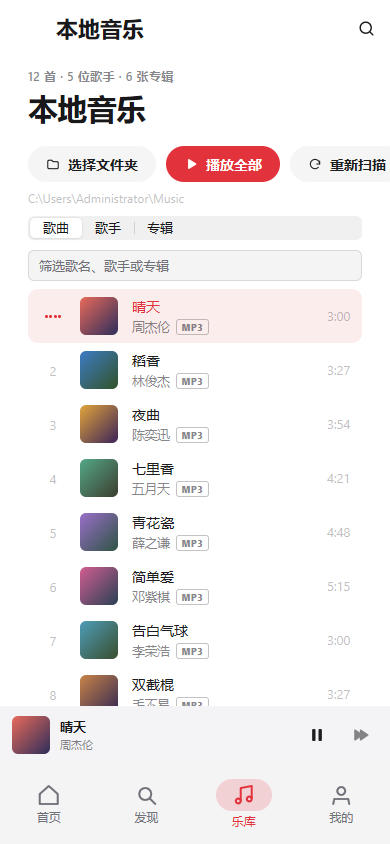
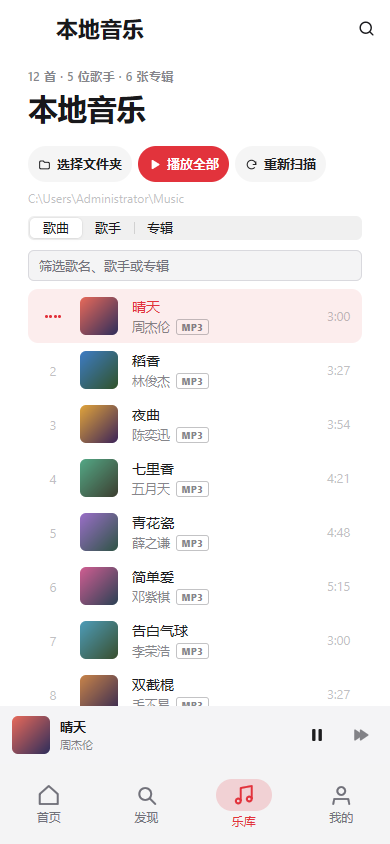
手机端布局按 mygo 官方组件收口
- 发现页与搜索结果页的输入框按屏宽铺满，不再固定 400px 溢出屏幕
- 本地音乐页三个按钮改紧凑样式，390px 屏幕上完整显示
- 设置页手机端改用官方 mobile.Section / ListRow / Switch，获得系统风格的
  分组、行高、分隔线与开关；桌面窗口仍用原来的紧凑列表
- 同步更新 README 的手机截图

Changed region(s): [[0.0923, 0.154, 1.0, 0.2156]]

diff --git a/internal/app/ui_settings.go b/internal/app/ui_settings.go
@@ -6,6 +6,7 @@ import (
 
 	"github.com/egoist/mygo"
 	"github.com/egoist/mygo/ui"
+	"github.com/egoist/mygo/ui/mobile"
 
 	"netease-music-mygo/internal/netease"
 )
@@ -60,6 +61,15 @@ func (a *app) changed() {
 	a.redraw()
 }
 
+// settingSwitch is the system switch on a phone and the desktop's in the
+// settings window. Both write to the setting the caller hands in.
+func (a *app) settingSwitch(c *ui.Context, key any, on *bool, label string, off bool) bool {
+	if a.phone {
+		return mobile.Switch(c.Key(key), on).Disabled(off).Changed()
+	}
+	return ui.Switch(c.Key(key), on).Label(label).Disabled(off).Changed()
+}
+
 func (a *app) settingsView(c *ui.Context) {
 	t := *c.Theme()
 	p := paletteFor(&t)
@@ -71,12 +81,27 @@ func (a *app) settingsView(c *ui.Context) {
 	}
 	s := &a.settings
 
-	ui.Scroll(c).Fill().Padding(24, 28, 32, 28).Gap(8).Children(func() {
+	// A phone gets the system's own grouped rows and switches: their row
+	// height, side padding, separators and touch feedback are the ones the
+	// other phone screens use. The desktop keeps its compact window list.
+	padX := float32(28)
+	if a.phone {
+		padX = 12
+	}
+	ui.Scroll(c).Fill().Padding(24, padX, 32, padX).Gap(8).Children(func() {
 		group := func(title string, rows func()) {
+			if a.phone {
+				mobile.Section(c, title, rows)
+				return
+			}
 			ui.Text(c, title).FontSize(12).FontWeight(600).TextColor(p.muted).Margin(14, 4, 4, 4)
 			ui.Column(c).Radius(12).Background(p.bg).Border(1, p.hairline).Dividers(1, p.hairline).Children(rows)
 		}
 		row := func(label, desc string, control func()) {
+			if a.phone {
+				mobile.ListRow(c, mobile.RowOptions{Title: label, Subtitle: desc, Trailing: control})
+				return
+			}
 			ui.Row(c).Padding(12, 16).Gap(16).AlignItems(ui.Center).MinHeight(48).Children(func() {
 				ui.Column(c).Grow(1).Shrink(1).MinWidth(0).Gap(3).Children(func() {
 					ui.Text(c, label).FontSize(13.5).FontWeight(500)
@@ -87,7 +112,6 @@ func (a *app) settingsView(c *ui.Context) {
 				control()
 			})
 		}
-
 		// Only on macOS: elsewhere the icon is always in the notification
 		// area.
 		if runtime.GOOS == "darwin" {
@@ -118,17 +142,17 @@ func (a *app) settingsView(c *ui.Context) {
 		if a.notch != nil {
 			group("刘海播放器", func() {
 				row("显示刘海播放器", "在屏幕顶部的刘海处显示迷你播放器，鼠标悬停即可展开", func() {
-					if ui.Switch(c.Key("notch"), &s.Notch).Label("显示刘海播放器").Changed() {
+					if a.settingSwitch(c, "notch", &s.Notch, "显示刘海播放器", false) {
 						a.changed()
 					}
 				})
 				row("播放时显示实时活动", "在刘海两侧显示封面与音频波形，可能遮挡刘海旁的菜单栏图标", func() {
-					if ui.Switch(c.Key("activity"), &s.NotchActivity).Label("播放时显示实时活动").Disabled(!s.Notch).Changed() {
+					if a.settingSwitch(c, "activity", &s.NotchActivity, "播放时显示实时活动", !s.Notch) {
 						a.changed()
 					}
 				})
 				row("在无刘海的屏幕上常驻显示", "关闭时，将鼠标移至屏幕顶部中央即可唤出，不会遮挡菜单栏", func() {
-					if ui.Switch(c.Key("virtual"), &s.NotchVirtual).Label("在无刘海的屏幕上常驻显示").Disabled(!s.Notch).Changed() {
+					if a.settingSwitch(c, "virtual", &s.NotchVirtual, "在无刘海的屏幕上常驻显示", !s.Notch) {
 						a.changed()
 					}
 				})
@@ -155,12 +179,12 @@ func (a *app) settingsView(c *ui.Context) {
 				}
 			})
 			row("间奏时显示热评", "前奏、间奏与尾奏时，歌词处换成这首歌的热门评论", func() {
-				if ui.Switch(c.Key("hot-comments"), &s.HotComments).Label("间奏时显示热评").Changed() {
+				if a.settingSwitch(c, "hot-comments", &s.HotComments, "间奏时显示热评", false) {
 					a.changed()
 				}
 			})
 			row("酷狗概念版", "以酷狗概念版的身份播放：概念版会员可听会员歌曲，账号旁显示概念版标识；切换后需要重新登录", func() {
-				if ui.Switch(c.Key("concept"), &s.Concept).Label("酷狗概念版").Changed() {
+				if a.settingSwitch(c, "concept", &s.Concept, "酷狗概念版", false) {
 					a.changed()
 					// The mode decides how everything is signed from here
 					// on, including the code the sign-in dialog asks for.
@@ -175,7 +199,7 @@ func (a *app) settingsView(c *ui.Context) {
 				}
 			})
 			row("音量均衡", "按酷狗音乐测得的响度调整每首歌的音量，让歌曲听起来一样响", func() {
-				if ui.Switch(c.Key("normalize"), &s.Normalize).Label("音量均衡").Changed() {
+				if a.settingSwitch(c, "normalize", &s.Normalize, "音量均衡", false) {
 					a.pl.SetVolume(a.volume)
 					a.changed()
 				}
@@ -310,12 +334,12 @@ func (a *app) settingsView(c *ui.Context) {
 
 		group("实验性功能", func() {
 			row("进度条烟雾特效", "播放时进度条化作拖着烟雾的光点，随音乐起伏；会多用一些电量", func() {
-				if ui.Switch(c.Key("smoke"), &s.Smoke).Label("进度条烟雾特效").Changed() {
+				if a.settingSwitch(c, "smoke", &s.Smoke, "进度条烟雾特效", false) {
 					a.changed()
 				}
 			})
 			row("烟雾背景", "播放页的背景化作封面色调的烟雾，缓缓升起，随低音起伏；仍在打磨，会多用一些电量", func() {
-				if ui.Switch(c.Key("fog"), &s.Fog).Label("烟雾背景").Changed() {
+				if a.settingSwitch(c, "fog", &s.Fog, "烟雾背景", false) {
 					a.changed()
 				}
 			})
@@ -353,13 +377,13 @@ func (a *app) settingsView(c *ui.Context) {
 				}
 				row("自动检查更新", desc, func() {
 					on := updateChecks()
-					if ui.Switch(c.Key("update-checks"), &on).Label("自动检查更新").Changed() {
+					if a.settingSwitch(c, "update-checks", &on, "自动检查更新", false) {
 						setUpdateChecks(on)
 					}
 				})
 				row("自动下载并安装", "在后台下载新版本，下次打开时生效", func() {
 					on := updateDownloads()
-					if ui.Switch(c.Key("update-downloads"), &on).Label("自动下载并安装").Disabled(!updateChecks()).Changed() {
+					if a.settingSwitch(c, "update-downloads", &on, "自动下载并安装", !updateChecks()) {
 						setUpdateDownloads(on)
 					}
 				})

diff --git a/internal/app/ui_local.go b/internal/app/ui_local.go
@@ -427,16 +427,23 @@ func (a *app) localHeader(c *ui.Context) {
 		}
 	}
 	a.heading(c, "本地音乐", sub)
+	pill := pillButton
+	if a.phone {
+		// Three full-size pills do not fit a phone's content width.
+		pill = func(c *ui.Context, icon *ui.SVG, label string, bg, fg ui.Color) ui.Element {
+			return pillButtonSized(c, icon, label, bg, fg, true)
+		}
+	}
 	buttons := func() {
-		if pillButton(c.Key("local-dir"), iconFolder, "选择文件夹", p.hover.Over(p.bg), p.text).Clicked() {
+		if pill(c.Key("local-dir"), iconFolder, "选择文件夹", p.hover.Over(p.bg), p.text).Clicked() {
 			a.chooseLocalDir()
 		}
 		if len(a.localTracks) > 0 {
-			if pillButton(c.Key("local-play"), iconPlay, "播放全部", p.accent, p.onAccent).Clicked() {
+			if pill(c.Key("local-play"), iconPlay, "播放全部", p.accent, p.onAccent).Clicked() {
 				songs := a.localShown()
 				a.pl.PlayQueue(songs, firstPlayable(songs))
 			}
-			if pillButton(c.Key("local-rescan"), iconReload, "重新扫描", p.hover.Over(p.bg), p.text).Clicked() {
+			if pill(c.Key("local-rescan"), iconReload, "重新扫描", p.hover.Over(p.bg), p.text).Clicked() {
 				a.scanLocal()
 			}
 		}
@@ -448,7 +455,7 @@ func (a *app) localHeader(c *ui.Context) {
 	// underneath instead of being squeezed off the edge.
 	if a.phone {
 		ui.Column(c).Gap(8).AlignItems(ui.Stretch).Margin(0, 0, 10, 0).Children(func() {
-			ui.Row(c).Gap(10).AlignItems(ui.Center).Children(buttons)
+			ui.Row(c).Gap(6).AlignItems(ui.Center).Children(buttons)
 			path(ui.Start)
 		})
 	} else {

diff --git a/internal/app/ui_kit.go b/internal/app/ui_kit.go
@@ -123,7 +123,17 @@ func vipTag(c *ui.Context, ink ui.Color, label string) ui.Element {
 }
 
 func pillButton(c *ui.Context, icon *ui.SVG, label string, bg, fg ui.Color) ui.Element {
-	b := ui.ButtonBase(c).Height(36).PaddingX(18).Gap(8).Radius(999).AlignItems(ui.Center).TextColor(fg)
+	return pillButtonSized(c, icon, label, bg, fg, false)
+}
+
+// pillButtonSized is pillButton with a compact form for the rows of buttons
+// a narrow screen has to fit: three full-size pills run off a phone.
+func pillButtonSized(c *ui.Context, icon *ui.SVG, label string, bg, fg ui.Color, compact bool) ui.Element {
+	padX, gap, font := float32(18), float32(8), float32(14)
+	if compact {
+		padX, gap, font = 10, 6, 13
+	}
+	b := ui.ButtonBase(c).Height(36).PaddingX(padX).Gap(gap).Radius(999).AlignItems(ui.Center).TextColor(fg)
 	fill := bg
 	if b.Hovered() {
 		fill = bg.Mix(ui.RGB(255, 255, 255), 0.12)
@@ -136,9 +146,13 @@ func pillButton(c *ui.Context, icon *ui.SVG, label string, bg, fg ui.Color) ui.E
 	b.AnimatePose(pose, ui.Snappy)
 	b.Children(func() {
 		if icon != nil {
-			ui.Icon(c, icon).Size(14, 14)
+			size := float32(14)
+			if compact {
+				size = 13
+			}
+			ui.Icon(c, icon).Size(size, size)
 		}
-		ui.Text(c, label).FontSize(14).FontWeight(600).SingleLine()
+		ui.Text(c, label).FontSize(font).FontWeight(600).SingleLine()
 	})
 	return b
 }

diff --git a/internal/app/ui_search.go b/internal/app/ui_search.go
@@ -375,7 +375,14 @@ func (a *app) searchHeader(c *ui.Context, d *searchData) {
 	// query does not mean going back to the sidebar's field.
 	in := ui.TextInput(c.Key("search-live"), &a.live.draft).
 		Placeholder("搜索歌曲、歌手、听书").Label("搜索").FontSize(14).
-		Width(400).Height(36).Margin(0, 0, 14, 0)
+		Height(36).Margin(0, 0, 14, 0)
+	// A fixed field runs off a phone's screen; on a desktop it keeps the
+	// width the sidebar was laid out for.
+	if a.phone {
+		in.FillWidth()
+	} else {
+		in.Width(400)
+	}
 	if in.Changed() {
 		a.liveTyped()
 	}
@@ -441,7 +448,8 @@ func (a *app) discoverPage(c *ui.Context) {
 	a.scrollPage(c, func() {
 		ui.Text(c, "发现音乐").FontSize(26).FontWeight(800).LetterSpacing(-0.6).Margin(0, 0, 16, 0)
 		in := ui.TextInput(c.Key("discover-field"), &a.live.draft).
-			Placeholder("搜索歌曲、歌手、听书").Label("搜索").FontSize(14).Width(400).Height(40).Margin(0, 0, 24, 0)
+			Placeholder("搜索歌曲、歌手、听书").Label("搜索").FontSize(14).
+			Height(40).Margin(0, 0, 24, 0).FillWidth()
 		if in.Changed() {
 			a.liveTyped()
 		}

diff --git a/internal/app/ui_captions.go b/internal/app/ui_captions.go
@@ -137,7 +137,7 @@ func (a *app) captionSettings(row func(label, desc string, control func()), c *u
 	m := &a.captions.model
 	s := &a.settings
 	row("听书字幕", "播放节目时在本机转写语音，生成可滚动的字幕；转写时会多用一些电量", func() {
-		if ui.Switch(c.Key("captions"), &s.Captions).Label("听书字幕").Disabled(!a.modelReady()).Changed() {
+		if a.settingSwitch(c, "captions", &s.Captions, "听书字幕", !a.modelReady()) {
 			a.changed()
 			a.syncCaptions()
 		}
